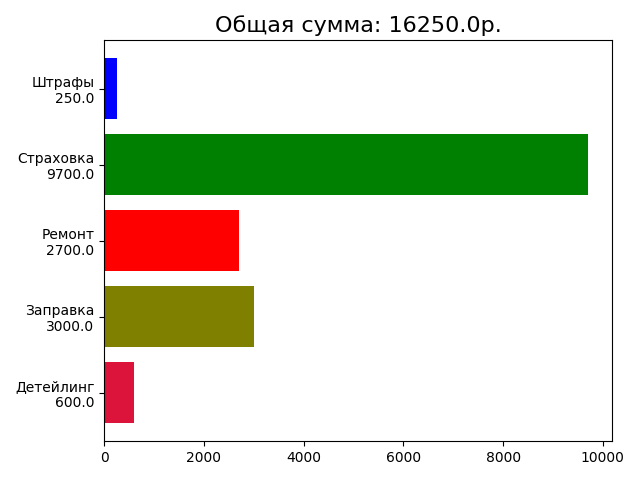
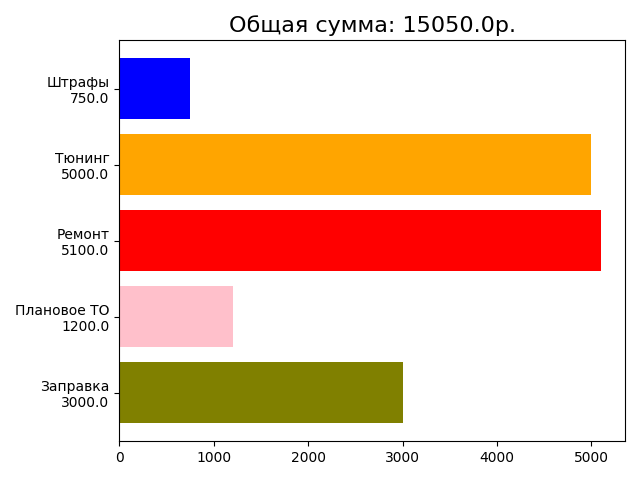
Рефакторинг, коментарии

diff --git a/apps/month_graphs/views.py b/apps/month_graphs/views.py
@@ -5,10 +5,13 @@ from django.views.generic import FormView
 from .forms import MonthGraphSelectForm
 from .utils.graph_builder import MonthGraphBuilder
 from .utils.month_graphs_settings import MONTHS_NAMES
-from ..garage.models import Transport
+from ..finance_expenses.utils import DataMixin
 
 
-class MonthGraphView(FormView):
+class MonthGraphView(DataMixin, FormView):
+    """
+    Рендерит шаблон с формой выбора типа диаграммы за месяц.
+    """
     form_class = MonthGraphSelectForm
     template_name = 'month_graphs/month_graph_form.html'
 
@@ -17,29 +20,41 @@ class MonthGraphView(FormView):
         self.transport_obj = None
         self.form_data = None
 
-    def get_transport(self):
-        transport_id = self.request.GET.get('transport_id')
-        self.transport_obj = Transport.objects.get(pk=transport_id)
-
     def get_initial(self):
+        """
+        Возвращает словарь с исходными данными для формы.
+        :return: словарь
+        """
         initial = super(MonthGraphView, self).get_initial()
-        self.get_transport()
+        self.transport_obj = self.get_transport(self.request)
         initial['username'] = self.request.user.username
         initial['transport'] = self.transport_obj.id
         initial['year'] = timezone.now().year
         return initial
 
-    def form_valid(self, form):
-        form_data = form.cleaned_data
-        print('form valid:', form_data)
+    def build_and_save_graph(self, form_data: dict) -> str:
+        """
+        Вызывает методы постройки диаграммы, и возвращает относительный путь к файлу с диаграммой.
+        :param form_data: данные из формы.
+        :return: относительный путь к файлу.
+        """
         builder = MonthGraphBuilder(**form_data)
         builder.build_and_save_graph(self.request)
         path = builder.get_user_dir() + '\\' + builder.get_file_name()
+        return path
+
+    def form_valid(self, form):
+        """
+        Обрабатывает данные из формы и отправляет их класс-строитель диаграмм. Возвращает функцию генерирующую шаблон.
+        :param form: форма.
+        :return: функция-генератор шаблона.
+        """
+        form_data = form.cleaned_data
+        file = self.build_and_save_graph(form_data)
         context = {
-            'file': path,
+            'file': file,
             'transport': self.transport_obj,
             'month': dict(MONTHS_NAMES)[form_data['month_number']].lower(),
             'year': form_data['year']
         }
-        print(context)
         return render(self.request, 'month_graphs/month_graph.html', context=context)

diff --git a/apps/month_graphs/utils/month_bars.py b/apps/month_graphs/utils/month_bars.py
@@ -17,8 +17,7 @@ class MonthGraphBars(MonthGraph, ABC):
         'Страховка': 'green',
         'Ремонт': 'red',
         'Пошлина': 'purple',
-        'Плановое': 'brown',
-        'ТО': 'pink',
+        'Плановое ТО': 'pink',
         'Налог': 'gray',
         'Заправка': 'olive',
         'Другое': 'cyan',
@@ -44,6 +43,9 @@ class MonthGraphBars(MonthGraph, ABC):
         """
         plt.rcParams.update({'figure.autolayout': True})
         plt.barh(self.__group_names, self.__group_data, color=self.__colors)
-        plt.title(f'Общая сумма: {sum(self.__group_data)}р.', fontsize=16)
+        if not self.__group_data and not self.__group_names:
+            plt.text(0, 0, "Данные отсутствуют", ha='center', size='xx-large')
+        else:
+            plt.title(f'Общая сумма: {sum(self.__group_data)}р.', fontsize=16)
         plt.savefig(str(path) + '\\' + self.file_name)
         plt.close()

diff --git a/apps/month_graphs/forms.py b/apps/month_graphs/forms.py
@@ -5,6 +5,9 @@ from apps.month_graphs.utils.month_graphs_settings import MONTH_GRAPH_CHOICES, M
 
 
 class MonthGraphSelectForm(forms.Form):
+    """
+    Форма выбора вида графика за месяц.
+    """
     username = forms.CharField(
         widget=forms.HiddenInput,
     )
